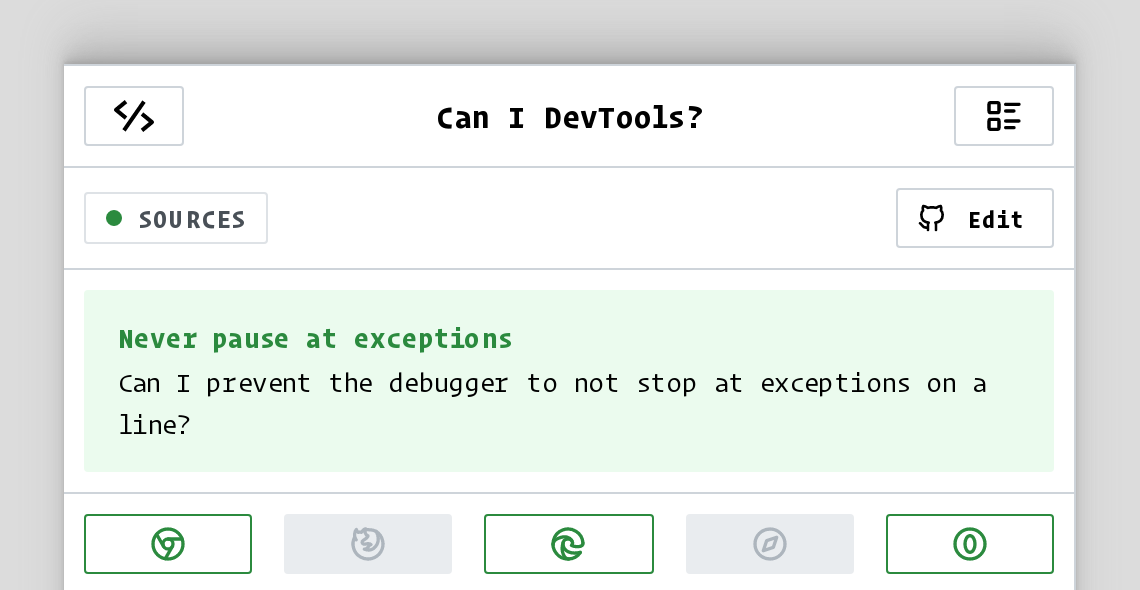
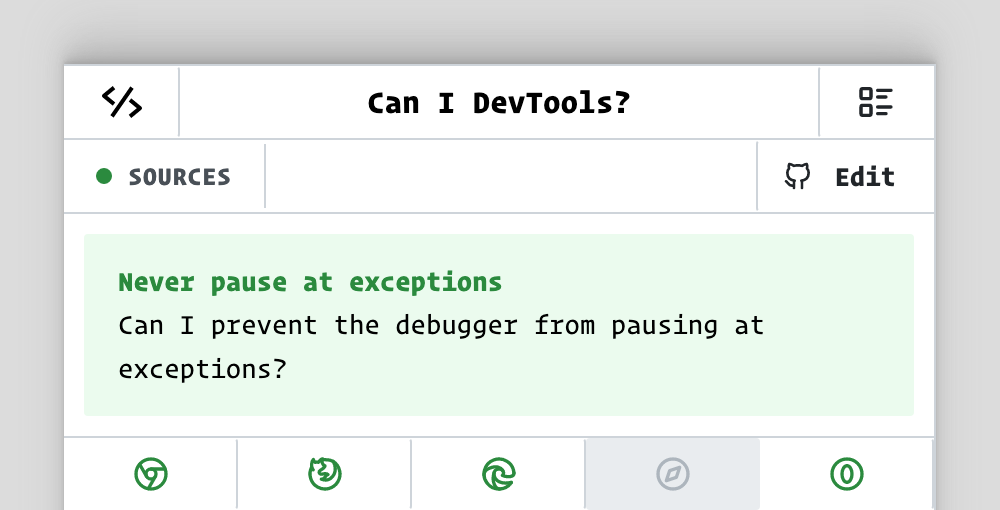
added opera

diff --git a/README.md b/README.md
@@ -1081,9 +1081,11 @@
  1. Inspect element > Find the corresponding declaration in the "Styles" pane. 
 2. Click the `<filename>:<lineno>` link adjacent to the declaration to locate the style in the source file.
 ## 80. Never pause at exceptions 
- Can I prevent the debugger to not stop at exceptions on a line? 
+ Can I prevent the debugger from pausing at exceptions? 
 - [Chrome](https://canidev.tools/never-pause-exceptions/chrome) 
  1. In **Sources**, right click on the line number that throws an exception and select "Never pause here".
+- [Firefox](https://canidev.tools/never-pause-exceptions/firefox) 
+ 1. In **Debugger**, right click on the line number that throws an exception and select "Never pause here".
 - [Edge](https://canidev.tools/never-pause-exceptions/edge) 
  1. In **Sources**, right click on the line number that throws an exception and select "Never pause here".
 
